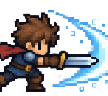
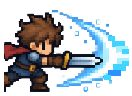
feat: add movement animations and fix attack clipping

diff --git a/src/enemies/EnemyRenderer.ts b/src/enemies/EnemyRenderer.ts
@@ -38,26 +38,30 @@ export class EnemyRenderer {
     let drawW = 46;
     let drawH = 30;
     let drawY = slime.y + slime.h - drawH;
+    let crawlPhase = 0;
 
     if (slime.state === 'cling' || slime.state === 'drop') {
       image = this.clingImage;
       drawW = 42;
       drawH = 28;
       drawY = slime.y - 1;
-    }
-    if (slime.state === 'pounce') {
+    } else if (slime.state === 'pounce') {
       drawW = 50;
       drawH = 30;
       drawY = slime.y + slime.h - drawH;
+    } else {
+      // Crawl motion: squash/stretch plus a tiny side-to-side body shift.
+      crawlPhase = Math.sin(slime.actionTime * 11);
+      drawW *= 1 + Math.abs(crawlPhase) * 0.12;
+      drawH *= 1 - Math.abs(crawlPhase) * 0.10;
+      drawY = slime.y + slime.h - drawH + Math.max(0, crawlPhase) * 1.5;
     }
 
     ctx.save();
-    if (slime.facing < 0) {
-      ctx.translate(slime.x + slime.w / 2, 0);
-      ctx.scale(-1, 1);
-      ctx.translate(-(slime.x + slime.w / 2), 0);
-    }
-    ctx.drawImage(image, slime.x - (drawW - slime.w) / 2, drawY, drawW, drawH);
+    const centerX = slime.x + slime.w / 2 + crawlPhase * 1.2;
+    ctx.translate(centerX, 0);
+    if (slime.facing < 0) ctx.scale(-1, 1);
+    ctx.drawImage(image, -drawW / 2, drawY, drawW, drawH);
     ctx.restore();
   }
 
@@ -67,11 +71,21 @@ export class EnemyRenderer {
     const centerY = goblin.y + goblin.h;
     ctx.translate(centerX, centerY);
 
-    // 採用元画像は右向き/左向きの基準が逆なので、現行版と同じ反転条件を維持。
+    // Keep the adopted goblin facing rule.
     if (goblin.facing > 0) ctx.scale(-1, 1);
 
     let rotation = 0;
     let offsetY = 0;
+    let scaleX = 1;
+    let scaleY = 1;
+
+    if (goblin.state === 'walk') {
+      const step = Math.sin(goblin.actionTime * 12);
+      offsetY = -Math.abs(step) * 2;
+      rotation = step * 0.035;
+      scaleX = 1 + Math.abs(step) * 0.035;
+      scaleY = 1 - Math.abs(step) * 0.025;
+    }
     if (goblin.state === 'swing') {
       rotation = Math.sin(Math.min(1, goblin.actionTime / 0.42) * Math.PI) * -0.20;
     }
@@ -86,22 +100,52 @@ export class EnemyRenderer {
 
     ctx.translate(0, offsetY);
     ctx.rotate(rotation);
+    ctx.scale(scaleX, scaleY);
     ctx.drawImage(this.goblinImage, -34, -67, 68, 67);
     ctx.restore();
   }
 
   private drawAhriman(ctx: CanvasRenderingContext2D, ahriman: Ahriman): void {
     const drawW = 76;
-    const flap = Math.sin(ahriman.actionTime * 12);
-    const drawH = 40 + flap * 2.2;
+    const drawH = 40;
+    const flap = Math.sin(ahriman.actionTime * 13);
     const centerX = ahriman.x + ahriman.w / 2;
     const centerY = ahriman.y + ahriman.h / 2;
 
     ctx.save();
     ctx.translate(centerX, centerY);
     if (ahriman.facing < 0) ctx.scale(-1, 1);
-    ctx.rotate(flap * 0.025);
-    ctx.drawImage(this.ahrimanImage, -drawW / 2, -drawH / 2, drawW, drawH);
+
+    // Split the sprite into left wing / eye / right wing so the wings visibly flap.
+    const sourceW = this.ahrimanImage.naturalWidth;
+    const sourceH = this.ahrimanImage.naturalHeight;
+    const wingW = Math.floor(sourceW * 0.34);
+    const bodyW = sourceW - wingW * 2;
+    const wingLift = flap * 5;
+    const wingScaleY = 0.78 + (flap + 1) * 0.18;
+
+    ctx.save();
+    ctx.translate(-drawW / 2, wingLift * -0.45);
+    ctx.scale(1, wingScaleY);
+    ctx.drawImage(this.ahrimanImage, 0, 0, wingW, sourceH, 0, -drawH / 2, drawW * 0.34, drawH);
+    ctx.restore();
+
+    ctx.drawImage(
+      this.ahrimanImage,
+      wingW, 0, bodyW, sourceH,
+      -drawW * 0.16, -drawH / 2, drawW * 0.32, drawH,
+    );
+
+    ctx.save();
+    ctx.translate(drawW * 0.16, wingLift * -0.45);
+    ctx.scale(1, wingScaleY);
+    ctx.drawImage(
+      this.ahrimanImage,
+      wingW + bodyW, 0, wingW, sourceH,
+      0, -drawH / 2, drawW * 0.34, drawH,
+    );
+    ctx.restore();
+
     ctx.restore();
   }
 }

diff --git a/src/player/PlayerRenderer.ts b/src/player/PlayerRenderer.ts
@@ -1,14 +1,14 @@
 import type { Facing } from '../game/types';
 
-const frameUrls = [1, 2, 3, 4, 5].map((index) =>
+const attackFrameUrls = [1, 2, 3, 4, 5].map((index) =>
   new URL(`../../assets/player/attack/attack_0${index}.png`, import.meta.url).href,
 );
 
 export class PlayerRenderer {
-  private readonly frames: HTMLImageElement[] = [];
+  private readonly attackFrames: HTMLImageElement[] = [];
 
   async load(): Promise<void> {
-    this.frames.push(...await Promise.all(frameUrls.map(loadImage)));
+    this.attackFrames.push(...await Promise.all(attackFrameUrls.map(loadImage)));
   }
 
   draw(
@@ -20,25 +20,38 @@ export class PlayerRenderer {
     facing: Facing,
     frame: number,
     invulnerability: number,
+    moving: boolean,
+    walkTime: number,
   ): void {
-    const image = this.frames[frame] ?? this.frames[0];
+    const image = this.attackFrames[frame] ?? this.attackFrames[0];
     if (!image) return;
 
-    const drawW = 88;
-    const drawH = 88;
-    const drawX = x + w / 2 - drawW / 2;
-    const drawY = y + h - drawH + 6;
+    const attacking = frame > 0;
+    const phase = moving && !attacking ? Math.sin(walkTime * 14) : 0;
+    const bob = moving && !attacking ? Math.abs(phase) * 2.2 : 0;
+    const tilt = moving && !attacking ? phase * 0.035 : 0;
+    const squashX = moving && !attacking ? 1 + Math.abs(phase) * 0.035 : 1;
+    const squashY = moving && !attacking ? 1 - Math.abs(phase) * 0.025 : 1;
+
+    // Attack frame 4 has a large slash arc. Use its full aspect ratio so no part is clipped.
+    const baseH = attacking ? 92 : 88;
+    const aspect = image.naturalWidth / image.naturalHeight;
+    const baseW = attacking ? Math.round(baseH * aspect) : 88;
+    const drawW = baseW * squashX;
+    const drawH = baseH * squashY;
+    const centerX = x + w / 2;
+    const footY = y + h + 6 - bob;
 
     ctx.save();
-    if (facing < 0) {
-      ctx.translate(x + w / 2, 0);
-      ctx.scale(-1, 1);
-      ctx.translate(-(x + w / 2), 0);
-    }
+    ctx.translate(centerX, footY);
+    if (facing < 0) ctx.scale(-1, 1);
+    ctx.rotate(tilt);
+
     if (invulnerability > 0 && Math.floor(invulnerability * 14) % 2 === 0) {
       ctx.globalAlpha = 0.35;
     }
-    ctx.drawImage(image, drawX, drawY, drawW, drawH);
+
+    ctx.drawImage(image, -drawW / 2, -drawH, drawW, drawH);
     ctx.restore();
   }
 }

diff --git a/src/player/Player.ts b/src/player/Player.ts
@@ -19,6 +19,7 @@ export class Player implements PhysicsBody {
   hp: number = BALANCE.player.maxHp;
   invulnerability = 0;
   readonly attack = new PlayerAttack();
+  walkTime = 0;
 
   constructor(private readonly renderer: PlayerRenderer) {}
 
@@ -29,6 +30,7 @@ export class Player implements PhysicsBody {
     this.attack.timer = 0;
     this.attack.cooldown = 0;
     this.attack.hitConsumed = false;
+    this.walkTime = 0;
   }
 
   resetPosition(): void {
@@ -38,6 +40,7 @@ export class Player implements PhysicsBody {
     this.vy = 0;
     this.grounded = false;
     this.facing = 1;
+    this.walkTime = 0;
   }
 
   update(dt: number, input: Input, stage: Stage): void {
@@ -68,6 +71,9 @@ export class Player implements PhysicsBody {
 
     this.attack.update(dt);
     this.invulnerability = Math.max(0, this.invulnerability - dt);
+
+    const movingOnGround = this.grounded && Math.abs(this.vx) > 0.15 && this.attack.timer <= 0;
+    if (movingOnGround) this.walkTime += dt;
 
     const previousY = this.y;
     this.vy += GRAVITY;
@@ -108,6 +114,8 @@ export class Player implements PhysicsBody {
       this.facing,
       this.attack.frame,
       this.invulnerability,
+      this.grounded && Math.abs(this.vx) > 0.15 && this.attack.timer <= 0,
+      this.walkTime,
     );
   }
 }
